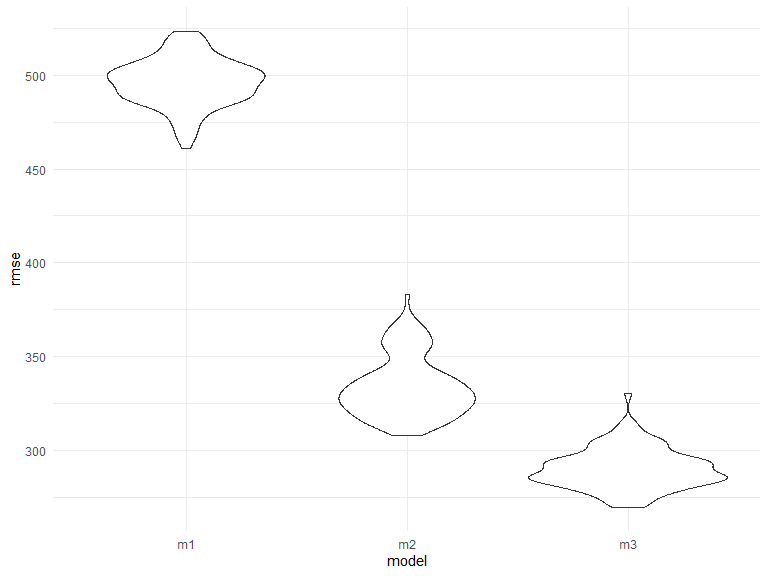
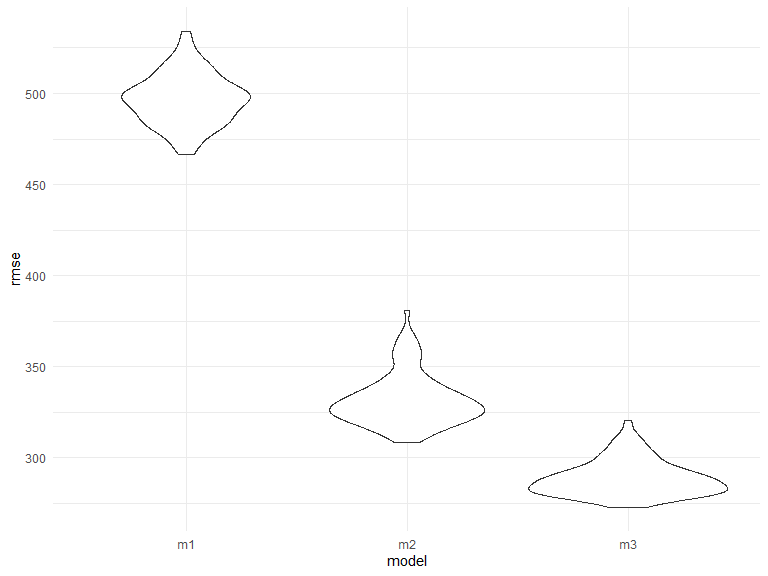
Made some edits to Problem 2 & 3

diff --git a/p8105_hw6_wm2460.md b/p8105_hw6_wm2460.md
@@ -95,7 +95,7 @@ homicides_new = homicides_df %>%
 ``` r
 baltimore_glm = homicides_new %>% 
   filter(city_state == "Baltimore_MD") %>% 
-  glm(resolved ~ victim_age + victim_sex + victim_race, data = ., family = binomial()) %>% 
+  glm(resolved ~ victim_age + victim_sex + victim_race, family = binomial(), data = .) %>% 
   broom::tidy()
 
 baltimore_glm
@@ -112,87 +112,93 @@ baltimore_glm
 ### Adjusted odds ratio for Baltimore
 
 ``` r
-baltimore_glm %>% 
+baltimore_or = baltimore_glm %>% 
   mutate(OR = exp(estimate),
-         CI_upper = exp(estimate + 1.96 * std.error),
-         CI_lower = exp(estimate - 1.96 * std.error)) %>%
+         CI_lower = exp(estimate - 1.96 * std.error),
+         CI_upper = exp(estimate + 1.96 * std.error))
+
+baltimore_or %>%
   filter(term == "victim_sexMale") %>%
-  select(term, OR, CI_upper, CI_lower) %>% 
+  select(term, OR, CI_lower, CI_upper) %>% 
   knitr::kable(digits = 3)
 ```
 
-| term           |    OR | CI_upper | CI_lower |
+| term           |    OR | CI_lower | CI_upper |
 |:---------------|------:|---------:|---------:|
-| victim_sexMale | 0.426 |    0.558 |    0.325 |
+| victim_sexMale | 0.426 |    0.325 |    0.558 |
+
+For Baltimore, the adjusted odds ratio for solving homicides comparing
+male victims to female victims keeping all other variables fixed is
+0.4255117 with 95% CI (0.324559, 0.5578655).
 
 ### `glm` and adjusted odds ratio for all cities
 
 ``` r
 all_glm = homicides_new %>% 
   nest(all_cities = -city_state) %>%
-  mutate(models = map(.x = all_cities, ~glm(resolved ~ victim_age + victim_sex + victim_race, data = ., family = binomial())),
+  mutate(models = map(.x = all_cities, ~glm(resolved ~ victim_age + victim_sex + victim_race, family = binomial(), data = .)),
          results = map(models, broom::tidy)) %>% 
   select(-models, -all_cities) %>% 
   unnest(cols = results) %>% 
   mutate(OR = exp(estimate),
-         CI_upper = exp(estimate + 1.96 * std.error),
-         CI_lower = exp(estimate - 1.96 * std.error)) %>% 
+         CI_lower = exp(estimate - 1.96 * std.error),
+         CI_upper = exp(estimate + 1.96 * std.error)) %>% 
   filter(term == "victim_sexMale") %>% 
-  select(city_state, OR, CI_upper, CI_lower)
+  select(city_state, OR, CI_lower, CI_upper)
 
 all_glm %>% 
   knitr::kable(digits = 3)
 ```
 
-| city_state        |    OR | CI_upper | CI_lower |
+| city_state        |    OR | CI_lower | CI_upper |
 |:------------------|------:|---------:|---------:|
-| Albuquerque_NM    | 1.767 |    3.761 |    0.831 |
-| Atlanta_GA        | 1.000 |    1.463 |    0.684 |
-| Baltimore_MD      | 0.426 |    0.558 |    0.325 |
-| Baton Rouge_LA    | 0.381 |    0.695 |    0.209 |
-| Birmingham_AL     | 0.870 |    1.318 |    0.574 |
-| Boston_MA         | 0.674 |    1.276 |    0.356 |
-| Buffalo_NY        | 0.521 |    0.935 |    0.290 |
-| Charlotte_NC      | 0.884 |    1.403 |    0.557 |
-| Chicago_IL        | 0.410 |    0.501 |    0.336 |
-| Cincinnati_OH     | 0.400 |    0.677 |    0.236 |
-| Columbus_OH       | 0.532 |    0.750 |    0.378 |
-| Denver_CO         | 0.479 |    0.971 |    0.236 |
-| Detroit_MI        | 0.582 |    0.734 |    0.462 |
-| Durham_NC         | 0.812 |    1.683 |    0.392 |
-| Fort Worth_TX     | 0.669 |    1.127 |    0.397 |
-| Fresno_CA         | 1.335 |    3.071 |    0.580 |
-| Houston_TX        | 0.711 |    0.907 |    0.558 |
-| Indianapolis_IN   | 0.919 |    1.242 |    0.679 |
-| Jacksonville_FL   | 0.720 |    0.966 |    0.537 |
-| Las Vegas_NV      | 0.837 |    1.154 |    0.608 |
-| Long Beach_CA     | 0.410 |    1.082 |    0.156 |
-| Los Angeles_CA    | 0.662 |    0.956 |    0.458 |
-| Louisville_KY     | 0.491 |    0.790 |    0.305 |
-| Memphis_TN        | 0.723 |    0.988 |    0.529 |
-| Miami_FL          | 0.515 |    0.872 |    0.304 |
-| Milwaukee_wI      | 0.727 |    1.060 |    0.499 |
-| Minneapolis_MN    | 0.947 |    1.875 |    0.478 |
-| Nashville_TN      | 1.034 |    1.562 |    0.685 |
-| New Orleans_LA    | 0.585 |    0.811 |    0.422 |
-| New York_NY       | 0.262 |    0.499 |    0.138 |
-| Oakland_CA        | 0.563 |    0.868 |    0.365 |
-| Oklahoma City_OK  | 0.974 |    1.520 |    0.624 |
-| Omaha_NE          | 0.382 |    0.721 |    0.203 |
-| Philadelphia_PA   | 0.496 |    0.652 |    0.378 |
-| Pittsburgh_PA     | 0.431 |    0.700 |    0.265 |
-| Richmond_VA       | 1.006 |    2.033 |    0.498 |
-| San Antonio_TX    | 0.705 |    1.249 |    0.398 |
-| Sacramento_CA     | 0.669 |    1.337 |    0.335 |
-| Savannah_GA       | 0.867 |    1.780 |    0.422 |
-| San Bernardino_CA | 0.500 |    1.462 |    0.171 |
-| San Diego_CA      | 0.413 |    0.855 |    0.200 |
-| San Francisco_CA  | 0.608 |    1.165 |    0.317 |
-| St. Louis_MO      | 0.703 |    0.932 |    0.530 |
-| Stockton_CA       | 1.352 |    2.942 |    0.621 |
-| Tampa_FL          | 0.808 |    1.876 |    0.348 |
-| Tulsa_OK          | 0.976 |    1.552 |    0.614 |
-| Washington_DC     | 0.690 |    1.017 |    0.468 |
+| Albuquerque_NM    | 1.767 |    0.831 |    3.761 |
+| Atlanta_GA        | 1.000 |    0.684 |    1.463 |
+| Baltimore_MD      | 0.426 |    0.325 |    0.558 |
+| Baton Rouge_LA    | 0.381 |    0.209 |    0.695 |
+| Birmingham_AL     | 0.870 |    0.574 |    1.318 |
+| Boston_MA         | 0.674 |    0.356 |    1.276 |
+| Buffalo_NY        | 0.521 |    0.290 |    0.935 |
+| Charlotte_NC      | 0.884 |    0.557 |    1.403 |
+| Chicago_IL        | 0.410 |    0.336 |    0.501 |
+| Cincinnati_OH     | 0.400 |    0.236 |    0.677 |
+| Columbus_OH       | 0.532 |    0.378 |    0.750 |
+| Denver_CO         | 0.479 |    0.236 |    0.971 |
+| Detroit_MI        | 0.582 |    0.462 |    0.734 |
+| Durham_NC         | 0.812 |    0.392 |    1.683 |
+| Fort Worth_TX     | 0.669 |    0.397 |    1.127 |
+| Fresno_CA         | 1.335 |    0.580 |    3.071 |
+| Houston_TX        | 0.711 |    0.558 |    0.907 |
+| Indianapolis_IN   | 0.919 |    0.679 |    1.242 |
+| Jacksonville_FL   | 0.720 |    0.537 |    0.966 |
+| Las Vegas_NV      | 0.837 |    0.608 |    1.154 |
+| Long Beach_CA     | 0.410 |    0.156 |    1.082 |
+| Los Angeles_CA    | 0.662 |    0.458 |    0.956 |
+| Louisville_KY     | 0.491 |    0.305 |    0.790 |
+| Memphis_TN        | 0.723 |    0.529 |    0.988 |
+| Miami_FL          | 0.515 |    0.304 |    0.872 |
+| Milwaukee_wI      | 0.727 |    0.499 |    1.060 |
+| Minneapolis_MN    | 0.947 |    0.478 |    1.875 |
+| Nashville_TN      | 1.034 |    0.685 |    1.562 |
+| New Orleans_LA    | 0.585 |    0.422 |    0.811 |
+| New York_NY       | 0.262 |    0.138 |    0.499 |
+| Oakland_CA        | 0.563 |    0.365 |    0.868 |
+| Oklahoma City_OK  | 0.974 |    0.624 |    1.520 |
+| Omaha_NE          | 0.382 |    0.203 |    0.721 |
+| Philadelphia_PA   | 0.496 |    0.378 |    0.652 |
+| Pittsburgh_PA     | 0.431 |    0.265 |    0.700 |
+| Richmond_VA       | 1.006 |    0.498 |    2.033 |
+| San Antonio_TX    | 0.705 |    0.398 |    1.249 |
+| Sacramento_CA     | 0.669 |    0.335 |    1.337 |
+| Savannah_GA       | 0.867 |    0.422 |    1.780 |
+| San Bernardino_CA | 0.500 |    0.171 |    1.462 |
+| San Diego_CA      | 0.413 |    0.200 |    0.855 |
+| San Francisco_CA  | 0.608 |    0.317 |    1.165 |
+| St. Louis_MO      | 0.703 |    0.530 |    0.932 |
+| Stockton_CA       | 1.352 |    0.621 |    2.942 |
+| Tampa_FL          | 0.808 |    0.348 |    1.876 |
+| Tulsa_OK          | 0.976 |    0.614 |    1.552 |
+| Washington_DC     | 0.690 |    0.468 |    1.017 |
 
 ### Plot for adjusted OR and 95% CI
 
@@ -210,13 +216,19 @@ or_plot
 
 <img src="p8105_hw6_wm2460_files/figure-gfm/plot_or-1.png" width="90%" />
 
-Comment on the plot: Here, we can see that New York has the lowest
-adjusted odds ratio and Albuquerque has the highest adjusted odds ratio.
-Since many cities have odds ratio below 1, the odds of having a resolved
-homicide when the victim is male is usually lower than the odds of
-having a resolved homicide when the victim was female in many cities,
-after adjusting for victim age and victim race. The 95% CI of Fresno,
-Stockton, and Albuquerque is much wider than other cities.
+Here, we can see that New York has the lowest adjusted odds ratio and
+Albuquerque has the highest adjusted odds ratio. Many cities have odds
+ratio below 1, and this means that the odds of having a resolved
+homicide when the victim is male is lower than the odds of having a
+resolved homicide when the victim is female in those cities, adjusting
+for victim age and victim race.
+
+On the other hand, several cities, such as Nashville, Fresno, Stockton,
+and Albuquerque, have odds ratio larger than 1, meaning that the odds of
+having a resolved homicide when the victim is male is higher than the
+odds of having a resolved homicide when the victim is female, adjusting
+for victim age and victim race. Besides, the 95% CI of Fresno, Stockton,
+and Albuquerque is much wider than other cities.
 
 ## Problem 3
 
@@ -269,7 +281,7 @@ I picked the variable `wtgain` as the predictor for model 1 and I picked
 it based on a hypothesized structure for the factors that underly
 birthweight. It is possible that mother’s weight gain during pregnancy
 is closely related to baby’s birth weight. If the mother gain more
-weight, perhaps the baby’s birth weight is heavier
+weight, perhaps the baby’s birth weight is heavier.
 
 The residual plot shows that the residual of `wtgain` is approximately
 normally distributed and there are not any notable outliers from the
@@ -309,9 +321,9 @@ bw_cv_plot
 
 <img src="p8105_hw6_wm2460_files/figure-gfm/cv-1.png" width="90%" />
 
-From the violin plot, we can see that model 1 has the highest RMSE and
-model 3 has the lowest RMSE. Since it is preferable to select the model
-with the smallest RMSE, model 3 is better comparing to the other two
-models.
+From the violin plot, we can see that model 1, which is the model I
+proposed, has the highest RMSE and model 3 has the lowest RMSE. Since it
+is preferable to select the model with the smallest RMSE, model 3 is
+better comparing to the other two models.
 
 ## End of HW6
